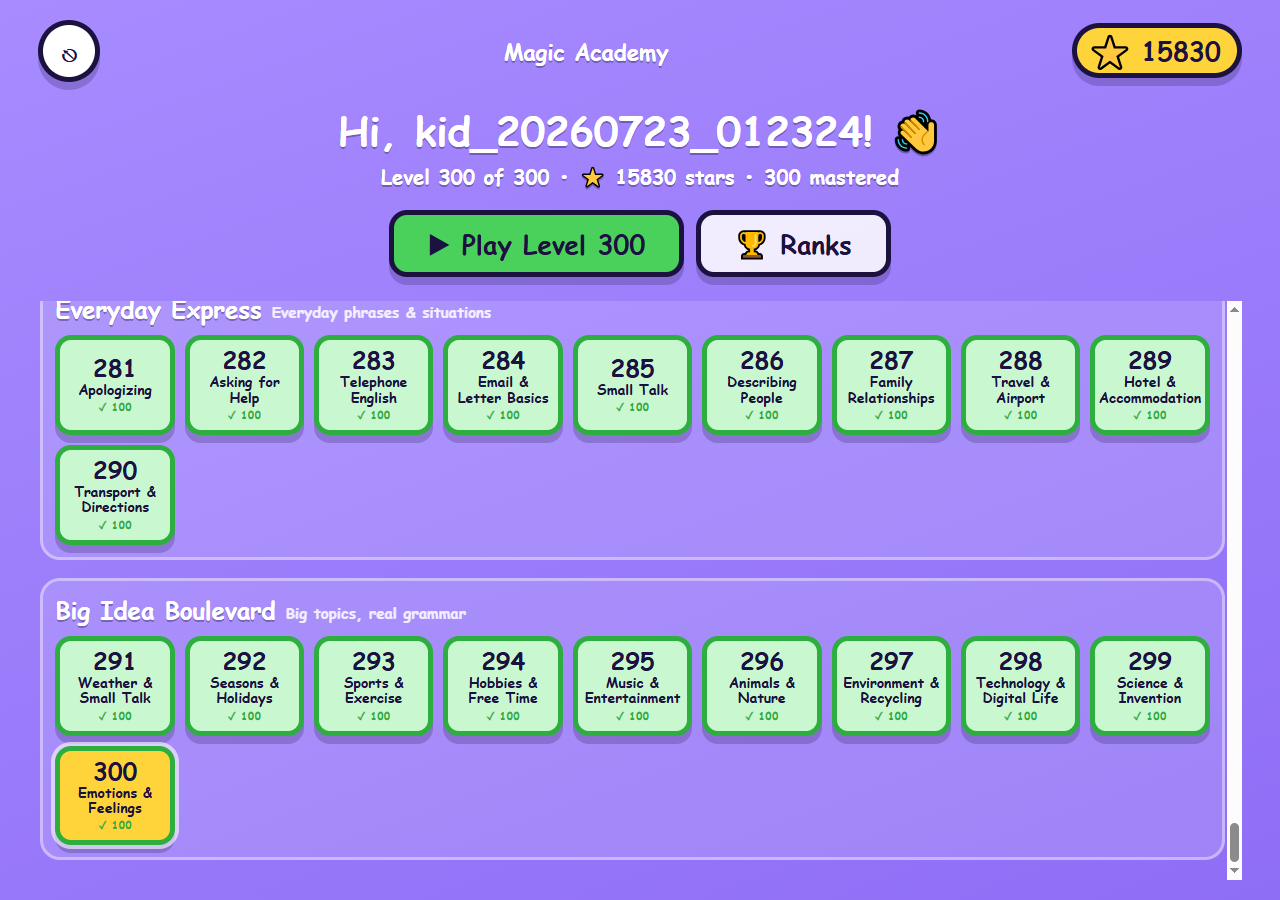
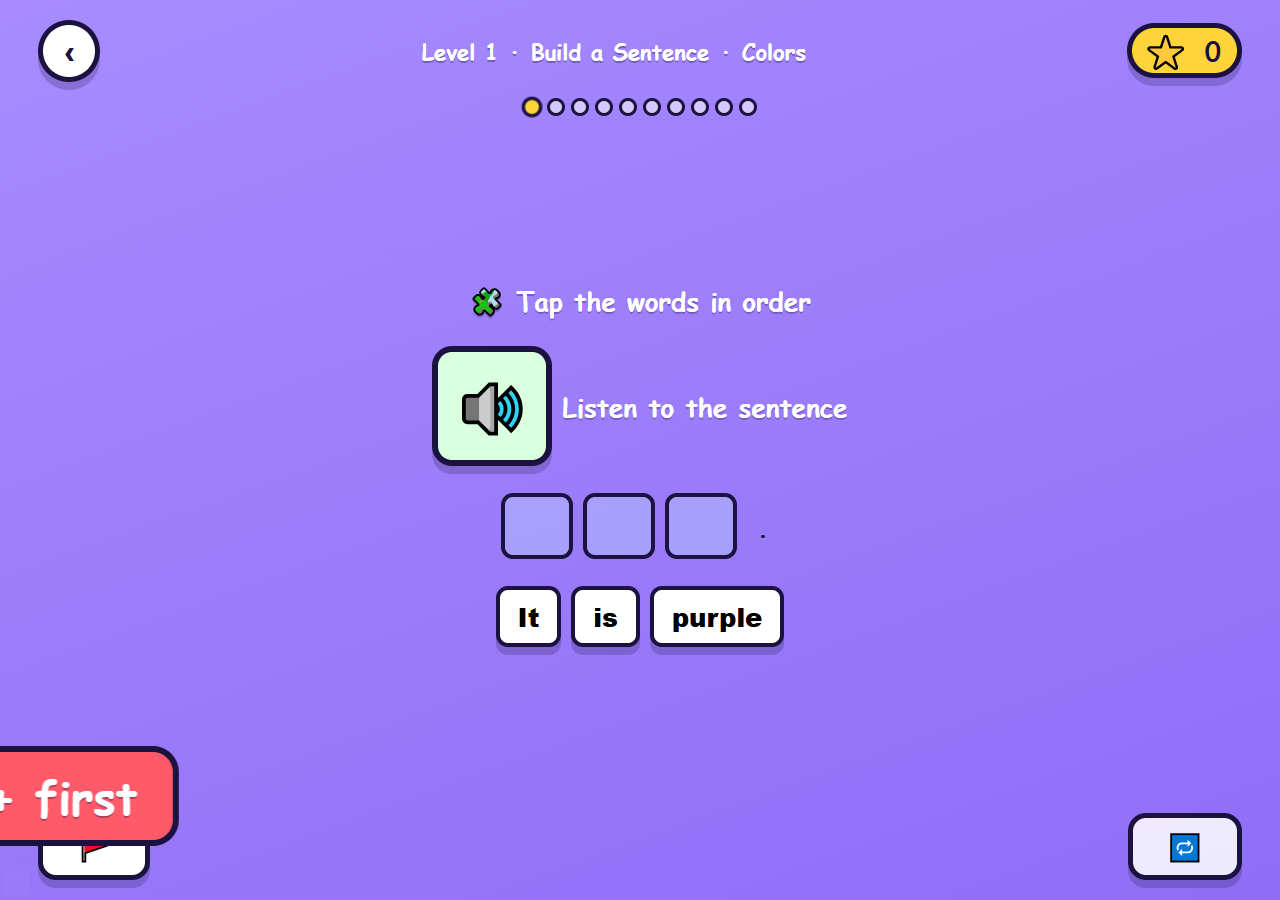
h

diff --git a/app.js b/app.js
@@ -130,6 +130,8 @@
     manifest: window.AUDIO_MANIFEST || {},
     current: null,              // currently-playing HTMLAudioElement
     voice: null, _ready: false, _token: 0, _ka: null,
+    _queue: [],
+    _playing: false,
 
     // Play a pre-recorded file if we have one for this text; otherwise fall back
     // to the browser's speech engine. Pre-recorded files (in ./audio) mean the
@@ -138,18 +140,42 @@
       opts = opts || {}; var done = opts.onend || function () { };
       if (FAST) { setTimeout(done, 0); return; }
       if (opts.mute) { setTimeout(done, 10); return; }
-      var file = this.manifest[normText(text)];
-      if (file) { this._playFile(file, done); return; }
-      this._speakSynth(text, opts, done);
+      this._queue.push({ text: String(text), opts: opts, done: done });
+      if (!this._playing) this._advanceQueue();
+    },
+    _advanceQueue: function () {
+      if (this._playing || !this._queue.length) return;
+      var next = this._queue.shift();
+      this._playing = true;
+      var file = this.manifest[normText(next.text)];
+      var self = this;
+      function complete() {
+        self._playing = false;
+        next.done();
+        self._advanceQueue();
+      }
+      if (file) { this._playFile(file, complete); return; }
+      this._speakSynth(next.text, next.opts, complete);
+    },
+    _stopCurrent: function () {
+      if (this.current) {
+        try { this.current.pause(); } catch (e) { }
+        try { this.current.onended = null; } catch (e) { }
+        this.current = null;
+      }
+      if (this.supported) {
+        try { window.speechSynthesis.cancel(); } catch (e) { }
+      }
     },
     _playFile: function (path, done) {
       var self = this, called = false;
       function fin() { if (!called) { called = true; done(); } }
       try {
-        if (this.current) { try { this.current.pause(); } catch (e) { } this.current.onended = null; this.current = null; }
+        this._stopCurrent();
         var a = new window.Audio(path);
         this.current = a;
-        a.onended = fin; a.onerror = fin;
+        a.onended = function () { fin(); };
+        a.onerror = function () { fin(); };
         var p = a.play();
         if (p && p.catch) p.catch(function () { fin(); });  // autoplay blocked -> resolve
         setTimeout(fin, 8000);
@@ -198,7 +224,7 @@
         u.onend = finish; u.onerror = finish;
         var token = ++this._token;
         function doSpeak() {
-          if (token !== self._token) { finish(); return; }   // superseded by a newer speak()
+          if (token !== self._token) { finish(); return; }
           if (!self.voice) { self._pickVoice(); if (self.voice) u.voice = self.voice; }
           try { synth.resume(); } catch (e) { }
           try { synth.speak(u); } catch (e) { finish(); }
@@ -206,13 +232,10 @@
         var busy = false;
         try { busy = synth.speaking || synth.pending; } catch (e) { }
         if (busy) {
-          // Interrupting speech: Chrome/Safari DROP an utterance if speak() runs in
-          // the same tick as cancel(), so cancel now and speak after a short gap.
+          // If the browser still considers speech busy, cancel stale audio first
           try { synth.cancel(); } catch (e) { }
           setTimeout(doSpeak, 60);
         } else {
-          // Idle: speak immediately so the call stays inside the user gesture
-          // (required to unlock audio) and no cancel/speak race can drop it.
           doSpeak();
         }
         setTimeout(finish, 6000);

diff --git a/test_e2e.py b/test_e2e.py
@@ -314,7 +314,13 @@ def _play_session_dom(page, step, mistakes=0, validate=False):
                 page.wait_for_selector(src, timeout=4000)
                 before = page.evaluate("() => window.__utt.length")
                 page.click(src)
-                page.wait_for_timeout(1100)   # long enough to actually HEAR the word
+                try:
+                    page.wait_for_function(
+                        "(b) => window.__utt.length > b",
+                        arg=before,
+                        timeout=4000)
+                except Exception:
+                    pass
                 new = page.evaluate("(b) => window.__utt.slice(b)", before)
                 assert len(new) >= 1, "tapping %s produced no speech for %s" % (src, gtype)
                 assert all(u["lang"] == "en-US" for u in new), "speech for %s not en-US: %s" % (gtype, new)

diff --git a/README.md b/README.md
@@ -2,7 +2,7 @@
 
 A colorful, fully-working web game that helps a young beginner (built for
 8-year-old **Tzofia**, Novakid **Level 2 – Starters**) practice English through
-**100 levels** of 10 different mini-games each. Inspired by the Novakid
+**300 levels** of 10 different mini-games each. Inspired by the Novakid
 "Magic Academy" screens and curriculum.
 
 Everything runs in the browser — **no build step, no server-side code, no
@@ -16,7 +16,7 @@ The game uses **cookies**, so it must be opened over `http://` (not by
 double-clicking the file). Start a tiny local server from this folder:
 
 ```bash
-cd Gilor
+cd englishGame
 python3 -m http.server 8000
 ```
 
@@ -67,19 +67,11 @@ A couple of kid-friendly touches:
 
 ---
 
-## 🗺️ 100 levels, worlds & unlocking
+## 🗺️ 300 levels, worlds & unlocking
 
-The 100 levels are grouped into six **worlds** that mirror the real Novakid
-ladder, each covering a topic extracted from the reference curriculum:
-
-| World | Feel | Example topics |
-|-------|------|----------------|
-| **Pre-K Planet** | first tiny words | Colors, Numbers, Shapes, Pets, Family |
-| **Juniors Jungle** | lots of first words | Wild/Sea animals, Food, Clothes, Weather |
-| **Starters Station** | Tzofia's Magic Academy | Classroom, Feelings, Daily routine, Transport, Opposites |
-| **Movers Mountain** | bigger ideas | Jobs, Sports, Space, House rooms, Shopping |
-| **Flyers Forest** | clever words | Reptiles, Technology, School subjects, Holidays |
-| **Explorers Galaxy** | master challenges | Tools, Deep space, Dinosaurs, Fantasy |
+The game now includes **300 levels** grouped into **26 worlds**. Each level has a
+topic, vocabulary items, and example sentences used by the sentence-builder
+and other games.
 
 **Unlocking:** every level starts **locked** except the first. Score **≥ 95**
 on a level to unlock the next one. You can replay any unlocked level to improve
@@ -97,7 +89,7 @@ highlighted, and the top three get 🥇🥈🥉.
 ## 🗂️ Project structure
 
 ```
-Gilor/
+englishGame/
 ├── index.html          # app shell
 ├── style.css           # all styling (the chunky cartoon look)
 ├── app.js              # game engine, auth, scoring, persistence, 10 games
@@ -110,13 +102,15 @@ Gilor/
 ├── build_audio.py      # regenerates audio/*.m4a + audio_manifest.js (macOS)
 ├── test_e2e.py         # Playwright end-to-end test
 ├── requirements.txt    # test dependencies
-├── levels/             # (your reference sketches — curriculum)
-└── screenshots examples/  # (your reference sketches — game screens)
+├── levels-101-200-grammar-design.md  # curriculum notes
+├── new_levels201_300.md             # curriculum notes
+├── new_topics201_300.md             # curriculum notes
+└── REVIEW-SUMMARY-levels-101-300.md  # curriculum review notes
 ```
 
 ### Curriculum / difficulty tiers
-`content.json` (and the identical `window.GAME_DATA` in `data.js`) holds **100
-levels** across six worlds (see the map above). Every level has a `world`,
+`content.json` (and the identical `window.GAME_DATA` in `data.js`) holds **300
+levels** across 26 worlds. Every level has a `world`,
 a global `index` (for unlock order), a `name` (its topic), a `color`, a list of
 vocabulary `items` (each with `word`, `emoji`, `slug`, `image`), and a few
 example `sentences` used by the sentence-builder game.
@@ -169,7 +163,7 @@ shows a broken asset** — while still meeting every requirement:
 ## ✅ End-to-end test (Playwright)
 
 `test_e2e.py` launches a **visible (headed)** Chromium, serves the folder, and
-plays the **entire game — all 100 levels, start to finish**. Every run
+plays the **entire game — all 300 levels, start to finish**. Every run
 registers a **brand-new user whose name contains the date & time**
 (`kid_YYYYMMDD_HHMMSS`), so runs never collide.
 
@@ -180,14 +174,14 @@ It verifies, for **every** level:
 * a **WRONG run** (deliberate wrong answers) scores **< 95**, loses stars, and
   the next level **stays locked**;
 * a **CORRECT run** scores **100** and **unlocks the next level** — then it
-  moves on, sweeping right through to Level 100.
+  moves on, sweeping right through to Level 300.
 
 Plus, on Level 1 in detail: pictures load, the **sound buttons speak in en-US**,
 and **"What is it?" answers on a word tap** (no ANSWER button). It finishes by
 checking the **rank board** ordering/highlight and that **all progress persists**
 across a page reload. A screenshot lands in `test-artifacts/e2e-summary.png`.
 
-> The sweep uses a hidden `fast` automation mode (skips animations/audio) so 200
+> The sweep uses a hidden `fast` automation mode (skips animations/audio) so 300
 > game sessions finish in a few minutes; Level 1's detailed pass runs at normal
 > speed so you can see and hear it.
 